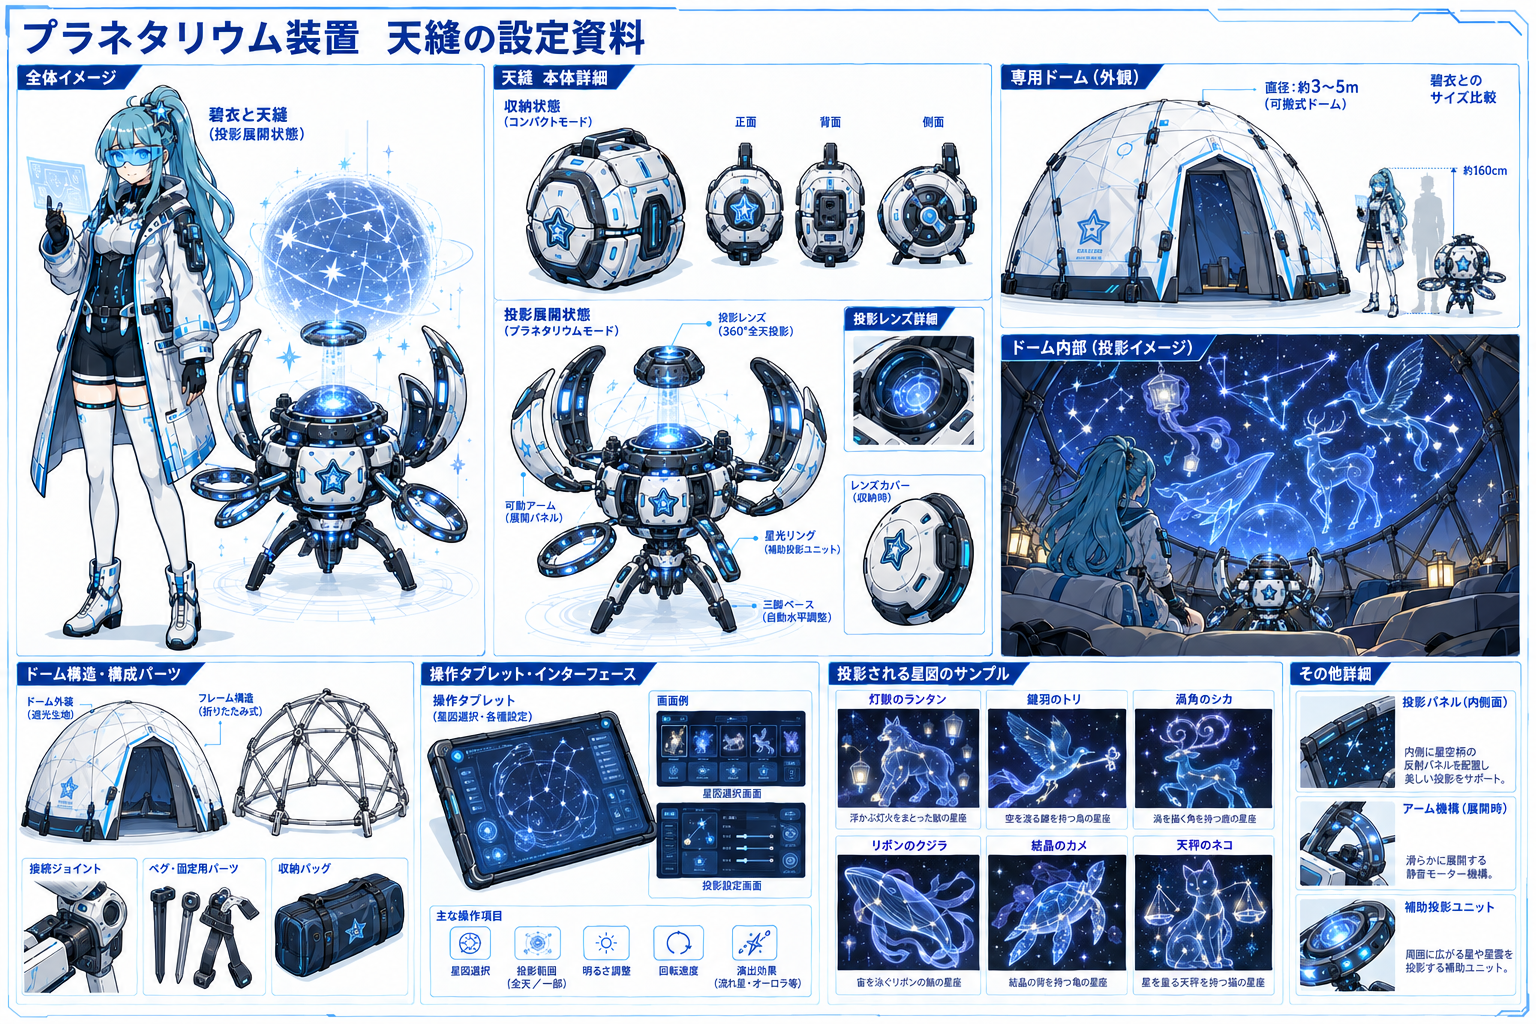
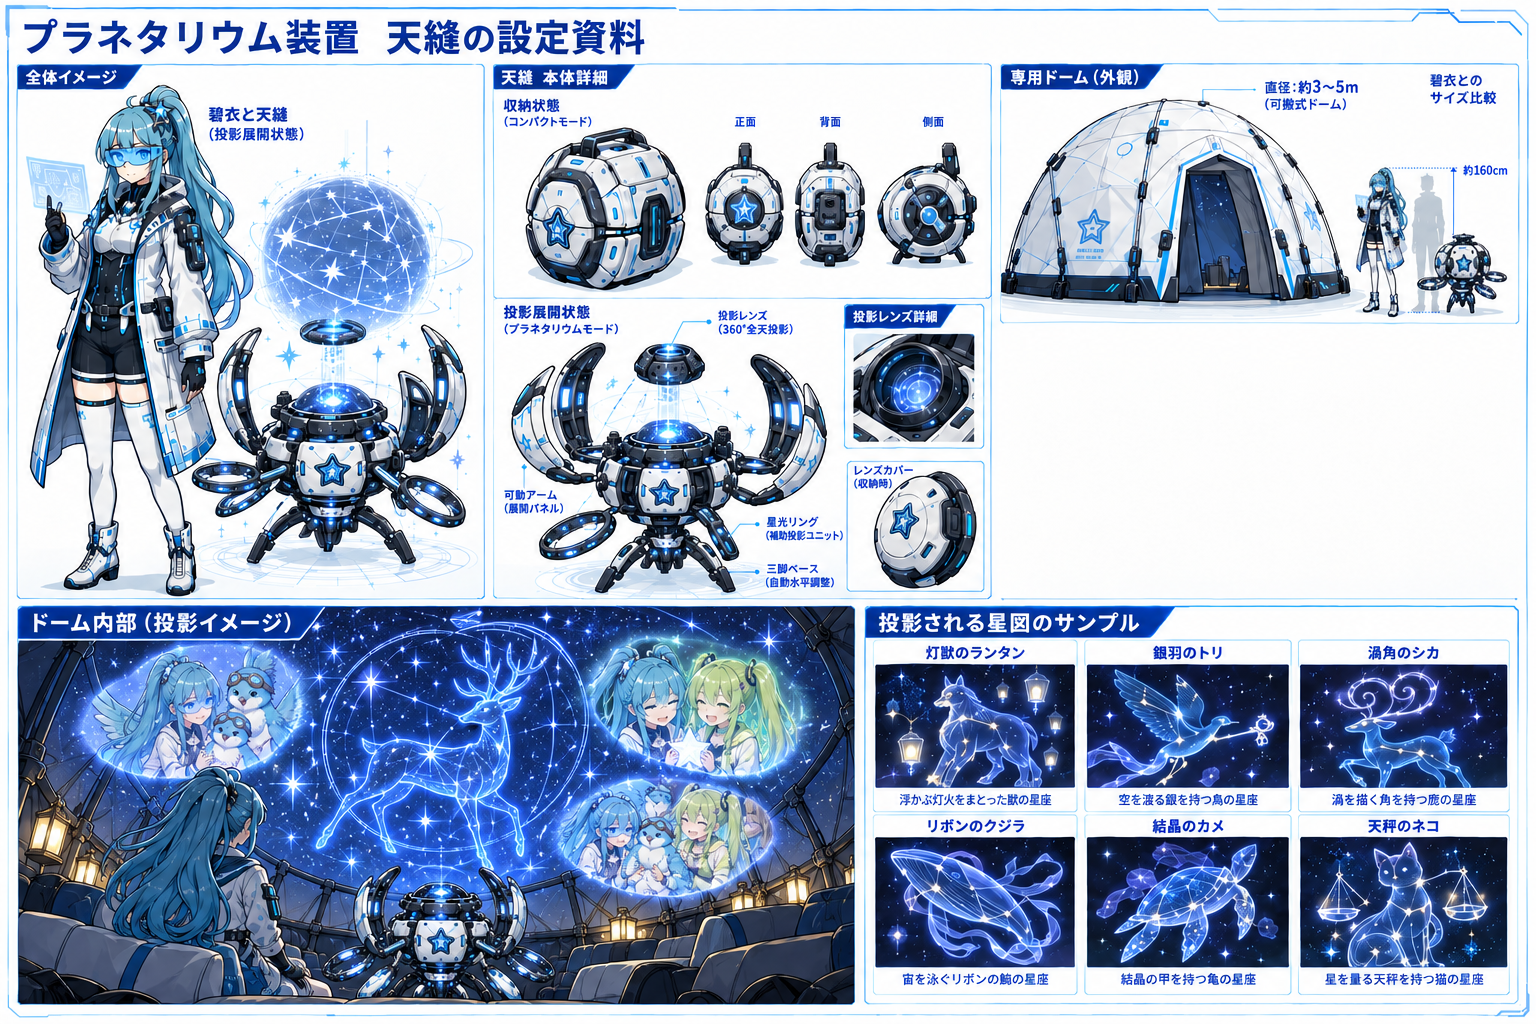
週次モードの実装途中

diff --git a/assets/weekly_image_guideline.md b/assets/weekly_image_guideline.md
@@ -84,7 +84,7 @@
 |---|---|---|
 | 碧衣の姿勢 | `seated` | ドームの座席に腰掛け、背もたれ越しに天井を見上げる |
 | | `standing` | 天縫の傍らに立ち、天井を見上げる |
-| | `operating` | 天縫の操作タブレット（`amanui.png` の「操作タブレット・インターフェース」）を手に、投影を整えながら見上げる |
+| | `operating` | 天縫の操作タブレットを手に、投影を整えながら見上げる |
 | | `reaching` | 立ったまま、主役の星座へ片手を伸ばす |
 | ルリの位置 | `shoulder` | 碧衣の肩に止まり、碧衣と同じ星座を見上げる |
 | | `amanui` | 天縫の本体（投影レンズの傍らや可動アームの上）に止まり、星座を見上げる |
@@ -123,16 +123,22 @@ pnpm exec tsx src/util/random_choice.ts shooting_stars aurora nebula milky_way
 ### 5-3. 思い出のホログラムと細かな星
 
 * 主役の星座の周辺に、**その週の思い出のホログラムをいくつか**投影させます。ホログラムは、その週の出来事の情景を映した、淡く光る小さな映像です。主役よりも控えめに描き、主役が一目で分かる強弱を保ちます。
+* ホログラムの見え方は、`amanui.png` の「ドーム内部（投影イメージ）」を参照します。見本のホログラムに映っている場面は流用しません（セクション5-4）。
 * 主役の星座の星のほかに、**細かな星をドーム全体へ散りばめ**させます。プラネタリウムの星空としての密度を出すためです。
 
 > **注記（ホログラムの見せ方）**: ホログラムの数（モード手順で選んだ今日の一枚の枚数と揃えるか）、何を映すか（選んだ今日の一枚の情景か、週の要約の出来事か）、主役の星座との強弱と配置の細部は未決定です。
 
-### 5-4. amanui.png のサンプル星座の扱い
+### 5-4. amanui.png のサンプル星座・ホログラムの扱い
 
-`amanui.png` には、投影される星座のサンプル（「投影される星図のサンプル」の6点：灯獣のランタン・鍵羽のトリ・渦角のシカ・リボンのクジラ・結晶のカメ・天秤のネコ、および「ドーム内部（投影イメージ）」に描かれた星座）が載っています。
+`amanui.png` には、投影される星座のサンプル（「投影される星図のサンプル」の6点：灯獣のランタン・銀羽のトリ・渦角のシカ・リボンのクジラ・結晶のカメ・天秤のネコ、および「ドーム内部（投影イメージ）」の中央に描かれたシカの星座）が載っています。
 
 * これらは、**星を線で結んだ形に淡く光る幻影を重ねる、という描き方の参照**に限ります。
 * **モチーフとしては流用しません**。サンプルと同じ姿の星座を使わないよう、プロンプトで明示してください。
+
+「ドーム内部（投影イメージ）」には、主役の星座の周辺に浮かぶ思い出のホログラムの見本も描かれています（碧衣とルリや、碧衣とほかの人物が映った場面）。
+
+* これらは、**主役の星座の周辺に、淡く光る小さな映像を浮かべる、という見せ方の参照**に限ります。
+* **映っている場面は流用しません**。ホログラムに映すのはその週の思い出です（セクション5-3）。見本と同じ場面や、見本に映っている碧衣・ルリ以外の人物を描かないよう、プロンプトで明示してください。
 
 ### 5-5. 前週の主役の星座の扱い
 
@@ -162,7 +168,7 @@ pnpm exec tsx src/util/random_choice.ts shooting_stars aurora nebula milky_way
   | 1 | `base.png` | 碧衣の容姿の正（同一性の維持） |
   | 2 | `outfit_a.png` | 衣装（オペレーションウェアのベーススタイル）の正 |
   | 3 | `ruri.png` | ルリの容姿の正（同一性の維持） |
-  | 4 | `amanui.png` | 天縫の本体・専用ドーム・投影の描き方の参照。碧衣の衣装とサンプル星座のモチーフは参照しない |
+  | 4 | `amanui.png` | 天縫の本体・専用ドーム・投影の描き方の参照。碧衣の衣装、サンプル星座のモチーフ、見本のホログラムに映っている場面は参照しない |
 
   指定例: `"base.png,outfit_a.png,ruri.png,amanui.png"`
 
@@ -205,7 +211,7 @@ pnpm exec tsx src/util/random_choice.ts shooting_stars aurora nebula milky_way
 * 一週間の出来事（セクション6の要約）を、そのまま列挙します。
 * セクション5-1〜5-3の指示（星と星を線で結んで架空の星座を作る／主役の星座1つと幻影／周辺の思い出のホログラム／細かな星）を書きます。
 * 「何の姿の星座にするかは指定しません。上の出来事から自由に着想し、この一週間を象徴する姿を選んでください」と、モチーフを委ねる旨を明記します。
-* `amanui.png` のサンプル星座を描き方の参照に限り、同じ姿の星座を使わない旨を書きます（セクション5-4）。
+* `amanui.png` のサンプル星座と見本のホログラムを描き方の参照に限り、同じ姿の星座や、見本と同じ場面・碧衣とルリ以外の人物を描かない旨を書きます（セクション5-4）。
 * 前週の主役の星座が渡されている場合は、その姿を避ける旨を書きます（セクション5-5）。
 * 抽選した天縫の演出効果を書き、主役の星座より控えめにする旨を添えます。
 
@@ -224,7 +230,7 @@ pnpm exec tsx src/util/random_choice.ts shooting_stars aurora nebula milky_way
 1. **碧衣の同一性**: 後ろ姿でも、水色の長いポニーテール・星のヘアクリップ・outfit_a の白いロングコートが保たれているか。
 2. **ルリ**: ルリが描かれており、抽選した位置にいて、ゴーグル・ショルダーバッグ・尾羽の同一性が保たれているか。
 3. **主役の星座と思い出のホログラム**: 画面上部の中央に主役の星座が1つあり、星を線で結んだ形と幻影から、何の姿か読み取れるか。その周辺に思い出のホログラムがいくつかあり、主役の星座を遮らず、主役より控えめに描かれているか。
-4. **サンプル・前週の星座との重複**: 主役の星座が、`amanui.png` のサンプル星座と同じ姿になっていないか。前週の主役の星座が渡されている場合は、今週の主役の星座が同じ姿になっていないか。
+4. **資料の見本・前週の星座との重複**: 主役の星座が、`amanui.png` のサンプル星座と同じ姿になっていないか。思い出のホログラムに、`amanui.png` の見本と同じ場面や、見本に映っている碧衣・ルリ以外の人物が描かれていないか。前週の主役の星座が渡されている場合は、今週の主役の星座が同じ姿になっていないか。
 5. **文字の写り込み**: 資料のラベル・星座の名前・ホログラムの中の日付や地名などの文字が描き込まれていないか。
 6. **構図**: 背中越しに見上げる構図になっており、天縫が描かれているか。
 
@@ -261,6 +267,7 @@ pnpm exec tsx src/util/random_choice.ts shooting_stars aurora nebula milky_way
 何の姿の星座にするかは指定しません。上の出来事から自由に着想し、この一週間を象徴する姿を選んでください。主役の星座は、星を線で結んだ形に、その姿の淡く光る幻影を重ねて投影し、周囲の星より一段明るく大きく描いてください。
 主役の星座の周辺には、上の出来事の情景を映した、淡く光る小さなホログラムをいくつか浮かべてください。ホログラムは主役の星座を遮らず、主役より控えめにしてください。ドーム全体には細かな星を散りばめてください。
 amanui.png の星座のサンプルは、星を線で結んだ形に幻影を重ねる描き方の参考に限ります。サンプルと同じ姿の星座は使わないでください。
+amanui.png のドーム内部に浮かぶホログラムも、見せ方の参考に限ります。そこに映っている場面や、碧衣とルリ以外の人物は描かないでください。
 天縫の演出として、星空に流れ星がいくつか走っています。主役の星座より目立たないようにしてください。
 
 [スタイルと品質]

diff --git a/.claude/rules/aoi_character.md b/.claude/rules/aoi_character.md
@@ -70,4 +70,4 @@
 - **投影の作法**: 天縫は、星を線で結んだ形に、その星座が表す姿の淡く光る幻影を重ねて映します。
 - **ルリとの時間**: 投影の時間には、ルリも碧衣とともにドームの星座を見上げます。
 - **碧衣のメッセージへの影響**: 天縫が主役になるのは、結星モードの一枚と本文です。ほかのモードの報告では持ち出す必然性が薄いため、触れる場合も一筆程度に留めてください。画像の情景として描く際の規則は [結星の画像生成ガイドライン](../../assets/weekly_image_guideline.md) を正とします。
-- **設定資料**: 外観・ドーム・操作画面・投影のイメージは [amanui.png](../../assets/images/amanui.png) を参照してください。資料に載っている星座のサンプル（灯獣のランタン・リボンのクジラなど）は投影の描き方を示す見本であり、結星の星座のモチーフには流用しません（[結星の画像生成ガイドライン](../../assets/weekly_image_guideline.md) セクション5-4）。
+- **設定資料**: 外観・ドーム・投影のイメージは [amanui.png](../../assets/images/amanui.png) を参照してください。資料に載っている星座のサンプル（灯獣のランタン・リボンのクジラなど）や、ドーム内部の投影イメージに浮かぶ思い出のホログラムの場面は、投影の描き方を示す見本です。結星の星座のモチーフやホログラムに映す場面には流用しません（[結星の画像生成ガイドライン](../../assets/weekly_image_guideline.md) セクション5-4）。

diff --git a/.claude/docs/codex_review.md b/.claude/docs/codex_review.md
@@ -193,7 +193,7 @@
   - `base.png` — 主役キャラクターの容姿の正。同一性を保つための資料
   - `outfit_a.png` — 衣装の設定資料
   - `ruri.png` — 主役に付き添う小鳥のキャラクターの容姿の正
-  - `amanui.png` — プラネタリウム装置とドームの設定資料。資料内の星座のサンプルは描き方の参考に限り、同じ姿の星座は使わせない
+  - `amanui.png` — プラネタリウム装置とドームの設定資料。資料内の星座のサンプルと、星座の周辺に浮かぶ映像の見本は描き方の参考に限り、同じ姿の星座や、見本と同じ場面の映像は使わせない
 - **主役の星座が何の姿かは、意図的に指定していません**。数行の出来事の一覧から、画像生成モデルに自由に着想させる方式です。星座の姿が決まっていないことは不備ではありません。
 - 主役の星座の周辺に、その週の出来事の情景を映した小さなホログラム（空中に浮かぶ、淡く光る映像）をいくつか置く構成は決定済みです。
 - 前週の主役の星座の姿を「避ける対象」として名指しする一文が入ることがあります。毎週同じ星座が続かないための除外であり、今週の星座の姿の指定ではありません。
